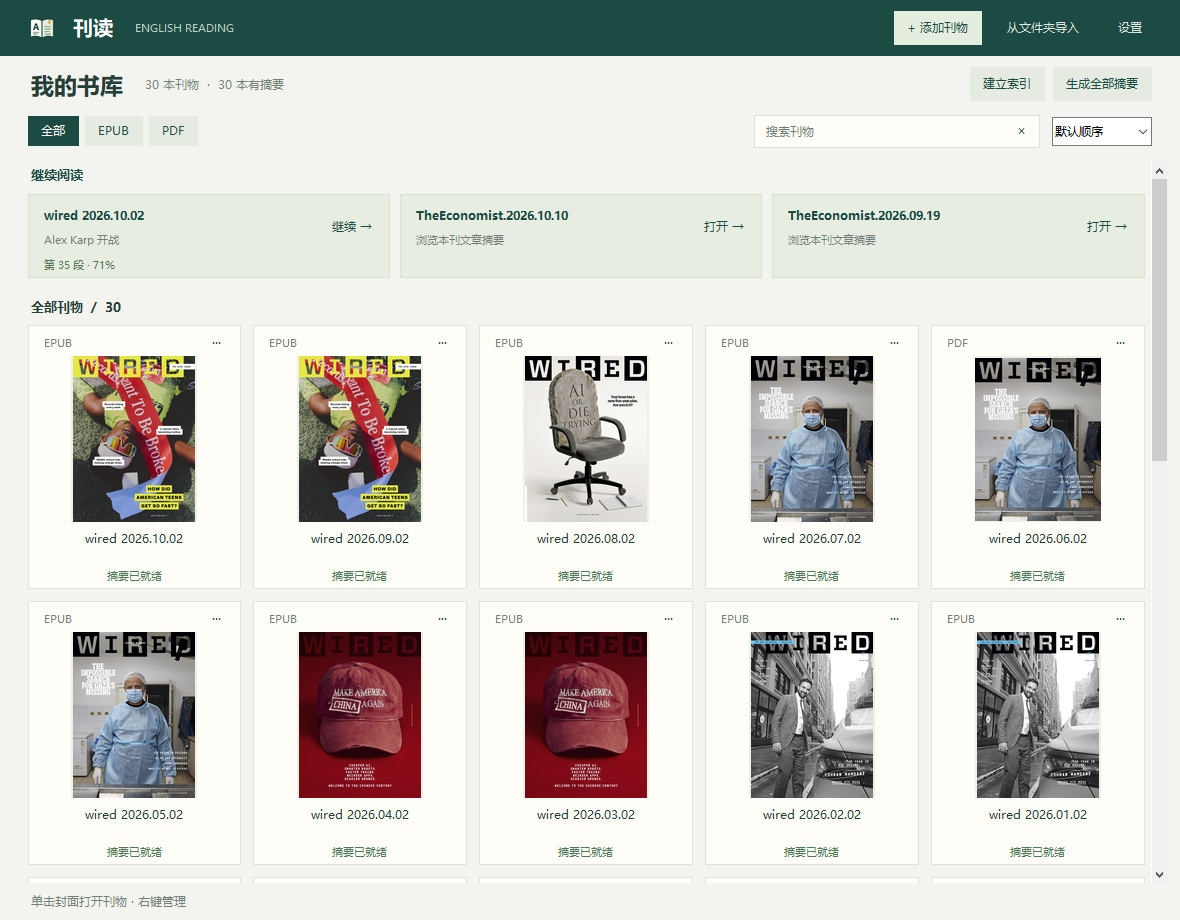
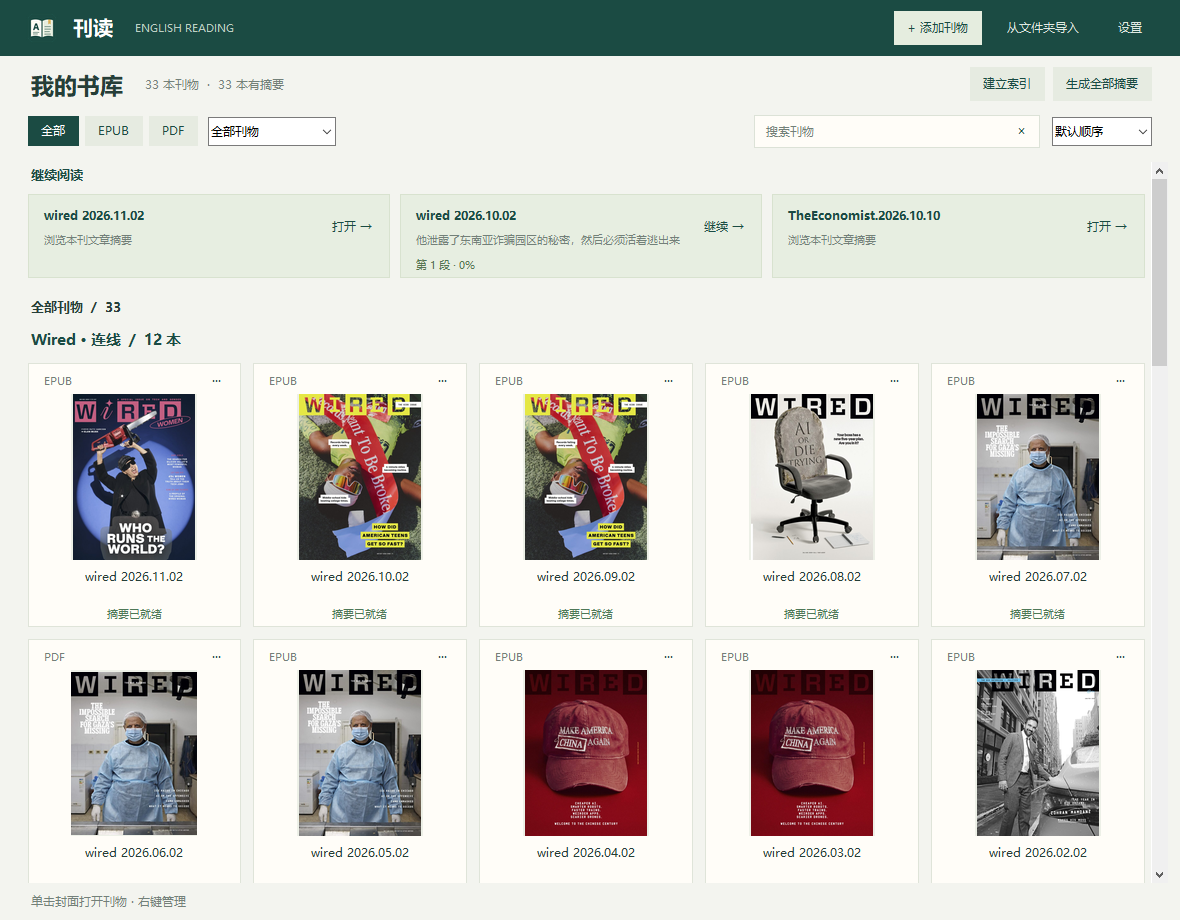
fix: 自动补齐缺失封面并按刊名分组展示书库

diff --git a/kandu/ui_library.py b/kandu/ui_library.py
@@ -18,6 +18,18 @@ MUTED = "#738079"
 WHITE = "#fffdf8"
 
 
+def publication(meta):
+    """按刊名归类；文件名的日期与格式不影响分类。"""
+    name = re.sub(r"[^a-z0-9\u3400-\u9fff]", "", meta["fileName"].casefold())
+    for needles, label in ((("economist", "经济学人"), "The Economist · 经济学人"),
+                           (("wired", "连线"), "Wired · 连线"),
+                           (("newyorker", "纽约客"), "The New Yorker · 纽约客"),
+                           (("atlantic", "大西洋月刊"), "The Atlantic · 大西洋月刊")):
+        if any(needle in name for needle in needles):
+            return label
+    return "其他刊物"
+
+
 class LibraryFrame(tk.Frame):
     def __init__(self, parent, app: "App"):
         super().__init__(parent, bg=PAPER)
@@ -29,6 +41,10 @@ class LibraryFrame(tk.Frame):
         self._recent_cards = []
         self._visible_ids = []
         self._mounted_ids = set()
+        self._groups = []
+        self._group_headings = {}
+        self._cover_attempted = set()
+        self._cover_pending = set()
         self._cols = 0
         self._search_after = self._layout_after = self._thumb_after = None
         self._tick_after = None
@@ -65,6 +81,10 @@ class LibraryFrame(tk.Frame):
             btn = self._button(controls, title, lambda k=key: self._select_format(k), pady=4)
             btn.pack(side="left", padx=(0, 6))
             self.filter_buttons[key] = btn
+        self.category_var = tk.StringVar(self, "全部刊物")
+        self.category_choice = ttk.Combobox(controls, textvariable=self.category_var, state="readonly", width=15)
+        self.category_choice.pack(side="left", padx=(4, 0), ipady=3)
+        self.category_choice.bind("<<ComboboxSelected>>", lambda e: self._apply_filters())
         self.sort_var = tk.StringVar(self, "默认顺序")
         self.sort_choice = ttk.Combobox(controls, textvariable=self.sort_var, state="readonly",
                                         values=("默认顺序", "名称排序", "最近打开"), width=11)
@@ -302,8 +322,47 @@ class LibraryFrame(tk.Frame):
             entry["state"].configure(text="摘要已就绪" if ready else "待生成摘要",
                                       fg="#4e7857" if ready else "#9a8b72")
         self.overview.configure(text=f"{len(self.metas)} 本刊物  ·  {len(self._digest_ids)} 本有摘要")
+        categories = sorted({publication(m) for m in self.metas})
+        self.category_choice.configure(values=["全部刊物", *categories])
+        if self.category_var.get() not in ("全部刊物", *categories):
+            self.category_var.set("全部刊物")
         self._render_recent(by_id)
         self._apply_filters()
+        self._repair_missing_covers()
+
+    def _repair_missing_covers(self, metas=None, retry=False):
+        """提取只在后台运行；文件缺失时不阻塞首页，也不在滚动时反复重试。"""
+        post = getattr(self.app, "post", None)
+        if post is None:
+            return
+        todo = [m for m in (self.metas if metas is None else metas)
+                if m["id"] not in self._cover_pending and
+                (retry or (m["id"] not in self._cover_attempted and not store.has_cover(m["id"])))
+                and os.path.isfile(m["path"])]
+        if not todo:
+            return
+        ids = {m["id"] for m in todo}
+        self._cover_pending.update(ids)
+        self._cover_attempted.update(ids)
+        post(self._cover_worker, todo)
+
+    def _cover_worker(self, metas):
+        results = {}
+        for meta in metas:
+            try:
+                results[meta["id"]] = bool(store.ensure_cover(meta))
+            except Exception:
+                results[meta["id"]] = False
+        self.app.emit("covers_ready", results)
+
+    def on_covers_ready(self, results):
+        self._cover_pending.difference_update(results)
+        for book_id, ready in results.items():
+            entry = self._cards.get(book_id)
+            if entry and ready:
+                self._photo_cache.pop(book_id, None)
+                entry["loaded"] = False
+        self._queue_thumbs()
 
     @staticmethod
     def _book_title(meta):
@@ -404,6 +463,7 @@ class LibraryFrame(tk.Frame):
     def _reset_filters(self):
         self.search_var.set("")
         self._format = "all"
+        self.category_var.set("全部刊物")
         self._apply_filters()
 
     @staticmethod
@@ -416,13 +476,24 @@ class LibraryFrame(tk.Frame):
             self._search_after = None
         words = self._search_text(self.search_var.get()).split()
         metas = [m for m in self.metas if (self._format == "all" or m["ext"] == self._format)
+                 and (self.category_var.get() == "全部刊物" or publication(m) == self.category_var.get())
                  and all(word in self._search_text(m["fileName"]) for word in words)]
         if self.sort_var.get() == "名称排序":
             metas.sort(key=lambda m: self._search_text(m["fileName"]))
         elif self.sort_var.get() == "最近打开":
             order = {book_id: i for i, book_id in enumerate(self.app.settings.get("recentBooks", []))}
             metas.sort(key=lambda m: order.get(m["id"], len(order)))
-        self._visible_ids = [m["id"] for m in metas]
+        grouped = {}
+        for meta in metas:
+            grouped.setdefault(publication(meta), []).append(meta["id"])
+        if self.sort_var.get() == "默认顺序":
+            by_id = {m["id"]: m for m in metas}
+            for name, ids in grouped.items():
+                if name != "其他刊物":
+                    ids.sort(key=lambda book_id: tuple(int(p) for p in re.findall(
+                        r"\d+", by_id[book_id]["fileName"])), reverse=True)
+        self._groups = list(grouped.items())
+        self._visible_ids = [book_id for _, ids in self._groups for book_id in ids]
         visible = set(self._visible_ids)
         for book_id, entry in self._cards.items():
             if book_id not in visible:
@@ -432,7 +503,7 @@ class LibraryFrame(tk.Frame):
         for key, button in self.filter_buttons.items():
             button.configure(bg=GREEN if key == self._format else "#e6ebe1",
                              fg="white" if key == self._format else GREEN)
-        filtered = self._format != "all" or bool(words)
+        filtered = self._format != "all" or bool(words) or self.category_var.get() != "全部刊物"
         self.result_label.configure(text=f"找到 {len(metas)} / {len(self.metas)} 本刊物" if filtered else f"全部刊物  /  {len(metas)}")
         if metas:
             self.empty.pack_forget()
@@ -452,15 +523,28 @@ class LibraryFrame(tk.Frame):
         width = max(1, self.canvas.winfo_width())
         cols = max(1, min(8, width // 192))
         self._cols = cols
-        self.shelf.configure(height=((len(self._visible_ids) + cols - 1) // cols) * 276)
-        for i, book_id in enumerate(self._visible_ids):
-            entry = self._cards[book_id]
-            left, right = (i % cols) * width // cols, (i % cols + 1) * width // cols
-            entry["position"] = (left + 6, i // cols * 276, max(1, right - left - 12))
-            wrap = max(100, right - left - 36)
-            if wrap != entry["wrap"]:
-                entry["title"].configure(wraplength=wrap)
-                entry["wrap"] = wrap
+        active = {name for name, _ in self._groups}
+        for name in set(self._group_headings) - active:
+            self._group_headings.pop(name).destroy()
+        y = 0
+        for name, ids in self._groups:
+            heading = self._group_headings.get(name)
+            if heading is None:
+                heading = self._group_headings[name] = tk.Label(self.shelf, bg=PAPER, fg=GREEN,
+                    anchor="w", font=(FAMILY, 11, "bold"))
+            heading.configure(text=f"{name}  /  {len(ids)} 本")
+            heading.place(x=6, y=y, width=max(1, width - 12), height=30)
+            y += 38
+            for i, book_id in enumerate(ids):
+                entry = self._cards[book_id]
+                left, right = (i % cols) * width // cols, (i % cols + 1) * width // cols
+                entry["position"] = (left + 6, y + i // cols * 276, max(1, right - left - 12))
+                wrap = max(100, right - left - 36)
+                if wrap != entry["wrap"]:
+                    entry["title"].configure(wraplength=wrap)
+                    entry["wrap"] = wrap
+            y += ((len(ids) + cols - 1) // cols) * 276 + 10
+        self.shelf.configure(height=max(1, y))
         self._queue_thumbs()
 
     def _load_visible_thumbs(self):
@@ -520,6 +604,7 @@ class LibraryFrame(tk.Frame):
         menu = tk.Menu(self, tearoff=0)
         self._card_popup = menu
         menu.add_command(label="打开", command=lambda: self.app.open_digest(meta))
+        menu.add_command(label="补取缺失封面", command=lambda: self._repair_missing_covers([meta], retry=True))
         menu.add_command(label="清除本书摘要", command=lambda: self._purge_one(meta, digest_only=True))
         menu.add_separator()
         menu.add_command(label="移出书库（删除文件与缓存）", command=lambda: self._remove_book(meta))

diff --git a/tests/run_tests.py b/tests/run_tests.py
@@ -2140,6 +2140,131 @@ def test_grammar_component_layout():
         root.destroy()
 
 
+@case("书库刊名分组、分类筛选、日期排序与卡片复用")
+def test_library_publication_groups():
+    import tkinter as tk
+    from types import SimpleNamespace
+    from kandu.ui_library import LibraryFrame, publication
+    root = tk.Tk()
+    root.geometry("900x620")
+    errors = []
+    root.report_callback_exception = lambda *a: errors.append(a)
+    names = ["wired_2026.09.02.epub", "TheEconomist.2026.11.07.epub",
+             "wired_2026.11.02.epub", "TheEconomist.2026.10.31.pdf",
+             "new_yorker.2026.10.19.pdf", "Atlantic_2026.09.02.epub", "Other.epub"]
+    metas = [dict(META, id=f"T_GROUP_{i}", fileName=name, ext=name.rsplit(".", 1)[1])
+             for i, name in enumerate(names)]
+    app = SimpleNamespace(settings={}, open_settings=lambda: None, start_indexing=lambda: None,
+                          start_batch_digest=lambda: None, index_state={"running": False, "done": 0},
+                          batch_state={"running": False, "done": 0})
+    try:
+        with patch.object(store, "load_library", return_value=metas):
+            frame = LibraryFrame(root, app)
+        frame.pack(fill="both", expand=True)
+        root.update()
+        frame._layout_cards()
+        root.update()
+        identities = {key: entry["frame"] for key, entry in frame._cards.items()}
+        assert len(frame._groups) == 5 and len(frame._group_headings) == 5
+        assert frame._groups[0][1] == [metas[2]["id"], metas[0]["id"]], "新刊应在同刊分组内排前面"
+        assert len(set(frame._visible_ids)) == len(metas)
+        previous_bottom = 0
+        for label, ids in frame._groups:
+            heading = frame._group_headings[label]
+            assert heading.winfo_y() >= previous_bottom
+            assert frame._cards[ids[0]]["position"][1] > heading.winfo_y() + heading.winfo_height()
+            previous_bottom = max(frame._cards[i]["position"][1] + 264 for i in ids)
+        category = publication(metas[1])
+        frame.category_var.set(category)
+        frame.category_choice.event_generate("<<ComboboxSelected>>")
+        root.update()
+        assert frame._visible_ids == [metas[1]["id"], metas[3]["id"]]
+        assert set(frame._group_headings) == {category}
+        frame._select_format("pdf")
+        assert frame._visible_ids == [metas[3]["id"]]
+        frame.search_var.set("11.07")
+        frame._apply_filters()
+        root.update()
+        assert not frame._groups and not frame._group_headings and frame.empty.winfo_ismapped()
+        frame._reset_filters()
+        root.update()
+        assert len(frame._groups) == 5 and frame.category_var.get() == "全部刊物"
+        assert all(entry["frame"] is identities[key] for key, entry in frame._cards.items())
+        for widget in (frame.category_choice, frame.search_entry, frame.sort_choice):
+            assert widget.winfo_ismapped() and widget.winfo_width() >= widget.winfo_reqwidth()
+        assert frame.category_choice.winfo_rootx() + frame.category_choice.winfo_width() < frame.search_entry.master.winfo_rootx()
+        frame.canvas.yview_moveto(1)
+        root.update()
+        assert frame.canvas.yview()[1] > .999
+        assert not errors, errors
+    finally:
+        root.destroy()
+
+
+@case("缺失封面后台补取、即时刷新、去重与索引跳过正文仍补封面")
+def test_cover_repair():
+    import io
+    import zipfile
+    import tkinter as tk
+    from PIL import Image
+    from pathlib import Path
+    from types import SimpleNamespace
+    from kandu.ui_library import LibraryFrame
+    from main import App
+    image = io.BytesIO()
+    Image.new("RGB", (160, 220), "#548376").save(image, "JPEG")
+    source = Path(SANDBOX) / "repair.epub"
+    with zipfile.ZipFile(source, "w") as archive:
+        archive.writestr("META-INF/container.xml", '<container><rootfile full-path="EPUB/book.opf"/></container>')
+        archive.writestr("EPUB/book.opf", '<package><metadata><meta name="cover" content="c"/></metadata>'
+                         '<manifest><item id="c" href="images/cover.jpg" media-type="image/jpeg"/></manifest></package>')
+        archive.writestr("EPUB/images/cover.jpg", image.getvalue())
+    meta = dict(META, id="T_COVER_REPAIR", path=str(source))
+    bad = dict(meta, id="T_COVER_BAD", path=str(Path(SANDBOX) / "bad.epub"))
+    Path(bad["path"]).write_bytes(b"not an epub")
+    posts, events, errors = [], [], []
+    root = tk.Tk()
+    root.geometry("900x620")
+    root.report_callback_exception = lambda *a: errors.append(a)
+    app = SimpleNamespace(settings={}, open_settings=lambda: None, start_indexing=lambda: None,
+                          start_batch_digest=lambda: None, index_state={"running": False, "done": 0},
+                          batch_state={"running": False, "done": 0}, post=lambda *args: posts.append(args),
+                          emit=lambda *args: events.append(args))
+    try:
+        with patch.object(store, "load_library", return_value=[meta, bad]):
+            frame = LibraryFrame(root, app)
+        frame.pack(fill="both", expand=True)
+        root.update()
+        assert len(posts) == 1 and not store.has_cover(meta["id"]), "渲染不能同步提取封面"
+        frame._render()
+        root.update()
+        assert len(posts) == 1, "重绘不能重复排队"
+        worker = threading.Thread(target=posts[0][0], args=posts[0][1:])
+        worker.start()
+        worker.join(timeout=5)
+        assert not worker.is_alive() and len(events) == 1
+        assert events[0] == ("covers_ready", {meta["id"]: True, bad["id"]: False})
+        frame.on_covers_ready(events[0][1])
+        root.update()
+        assert meta["id"] in frame._photo_cache and not frame._cover_pending
+        photo = frame._photo_cache[meta["id"]]
+        frame._render()
+        root.update()
+        assert len(posts) == 1 and frame._photo_cache[meta["id"]] is photo
+        frame._repair_missing_covers([bad], retry=True)
+        assert len(posts) == 2, "失败封面允许手动重试"
+        holder = SimpleNamespace(index_state={"running": True, "errors": [], "done": 0})
+        with patch.object(store, "has_content", return_value=True), \
+             patch.object(store, "ensure_cover") as cover, \
+             patch.object(store, "ensure_content", side_effect=AssertionError("已有正文不能重复解析")):
+            App._index_worker(holder, [meta])
+        cover.assert_called_once_with(meta)
+        assert holder.index_state["skipped"] == 1 and not holder.index_state["running"]
+        assert not errors, errors
+    finally:
+        root.destroy()
+
+
 def main():
     only = set(sys.argv[1:])
     if os.path.exists(SANDBOX):

diff --git a/main.py b/main.py
@@ -62,13 +62,12 @@ class App(tk.Tk):
                 break
             self.index_state["current"] = m["fileName"]
             self.index_state["done"] = i
-            if store.has_content(m):
-                skipped += 1
-                self.index_state["done"] = i + 1
-                continue
             try:
-                store.ensure_content(m)
                 store.ensure_cover(m)
+                if store.has_content(m):
+                    skipped += 1
+                else:
+                    store.ensure_content(m)
             except Exception as e:
                 self.index_state["errors"].append(f"{m['fileName']}：{e}")
             self.index_state["done"] = i + 1

diff --git a/kandu/__init__.py b/kandu/__init__.py
@@ -1,3 +1,3 @@
 """刊读 · Kandu Desktop"""
 
-__version__ = "0.8.9"
+__version__ = "0.8.10"

diff --git a/README.md b/README.md
@@ -9,7 +9,7 @@
 
 每张截图单独展示，点击图片可查看原图。
 
-**我的书库：自适应刊物书架、最近阅读直达文章、刊名搜索与 EPUB / PDF 筛选。**
+**我的书库：按刊名分区、同刊新期优先、最近阅读直达文章，分类、搜索与 EPUB / PDF 筛选可组合使用。**
 
 [![书库首页：刊物封面、继续阅读、搜索与格式筛选](docs/screenshots/desktop-library.png)](docs/screenshots/desktop-library.png)
 
@@ -71,6 +71,11 @@
    生词表词条级段落锚点自愈、运行日志（error.log）
 
 数据目录：`%LOCALAPPDATA%\KanduDesktop`（settings.json / books.json / vocab / covers / cache / article_states）
+
+v0.8.10 首页按 Wired、经济学人、纽约客、大西洋月刊等刊名分区，同刊各期集中展示，默认新期优先。
+分类下拉框可直达某刊，支持组合刊名搜索和 EPUB / PDF 筛选，继续阅读入口保持固定。
+首页会在后台补取缺失封面并即时更新对应卡片，不阻塞浏览；失败可通过卡片菜单「补取缺失封面」重试。
+修复「建立索引」跳过已有正文缓存时也跳过封面的漏洞，已有正文无需重新解析即可补齐封面。
 
 v0.8.9 修复模型生成的空格图解本身错位时，中文成分与英文无法对应的问题。
 新句解返回原句片段、成分名称和从句层级，由程序统一排版；英文长片段自动换行并保持原文列对齐。
